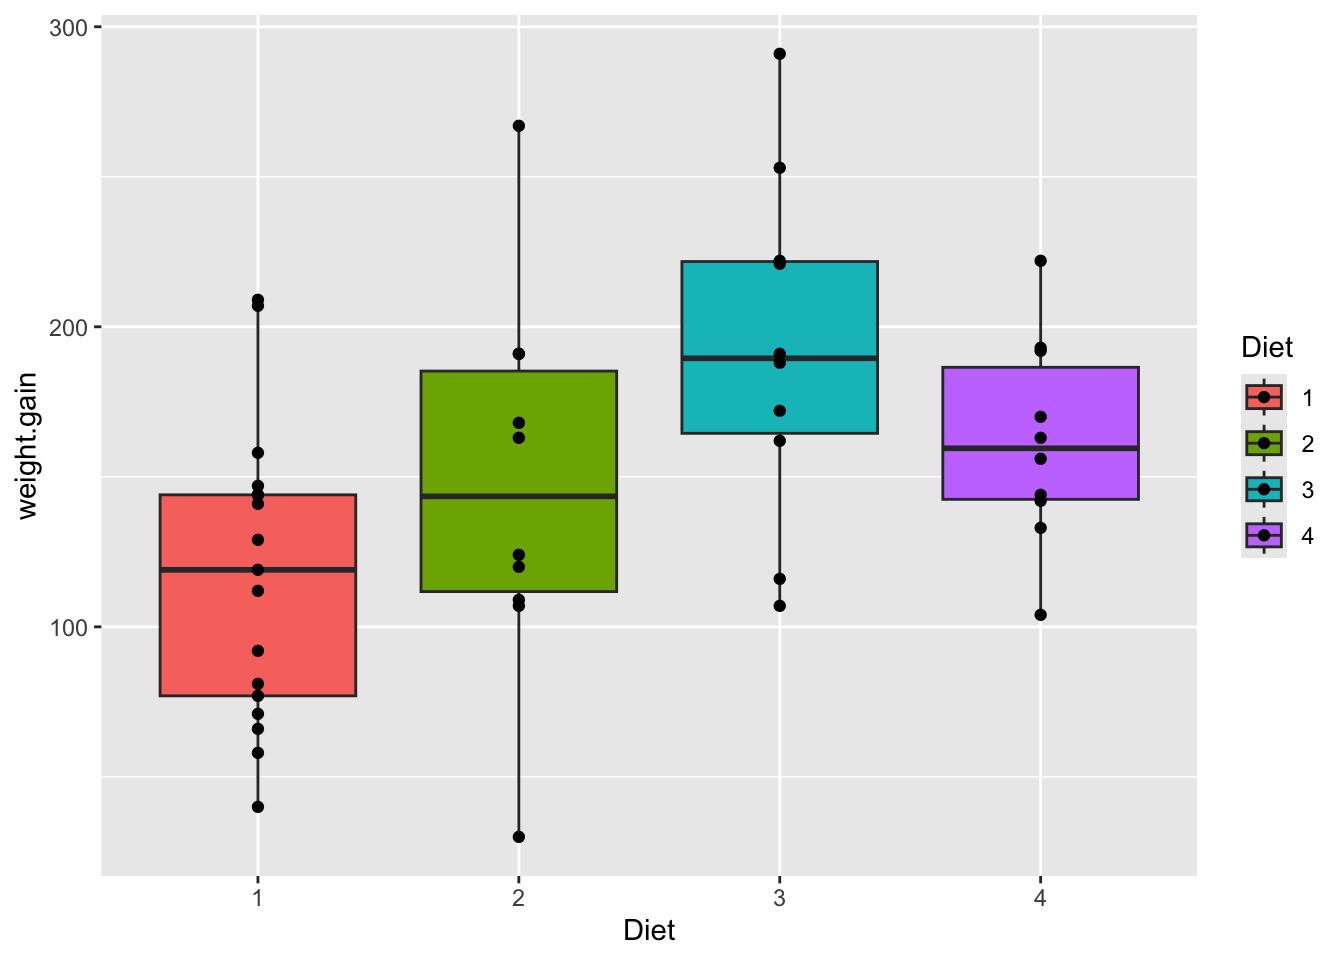
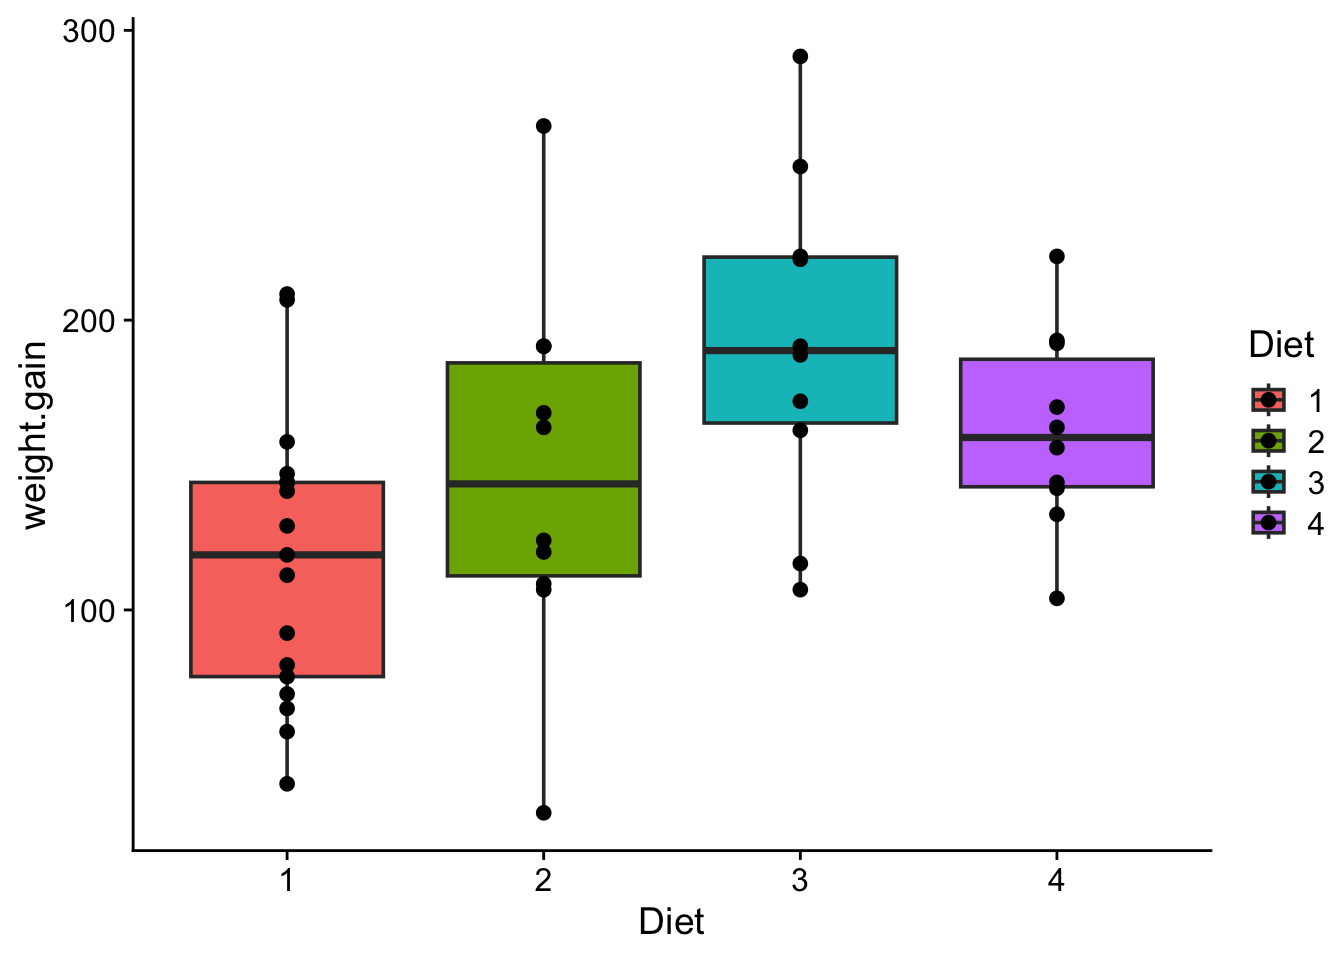
CW04

diff --git a/docs/activities/classwork04/classwork_L04.html b/docs/activities/classwork04/classwork_L04.html
@@ -189,7 +189,7 @@ pre > code.sourceCode > span > a:first-child::before { text-decoration: underlin
   <li><a href="#load-the-tidyverse-package" id="toc-load-the-tidyverse-package" class="nav-link" data-scroll-target="#load-the-tidyverse-package">Load the Tidyverse Package</a></li>
   <li><a href="#reshaping-and-summarizing-data" id="toc-reshaping-and-summarizing-data" class="nav-link" data-scroll-target="#reshaping-and-summarizing-data">Reshaping and Summarizing Data</a>
   <ul class="collapse">
-  <li><a href="#which-month-had-the-most-and-least-passengers-in-the-airpassengers-data" id="toc-which-month-had-the-most-and-least-passengers-in-the-airpassengers-data" class="nav-link" data-scroll-target="#which-month-had-the-most-and-least-passengers-in-the-airpassengers-data">1. Which month had the most and least passengers in the <code>AirPassengers</code> data?</a>
+  <li><a href="#on-average-which-month-had-the-most-and-least-passengers-in-the-airpassengers-data" id="toc-on-average-which-month-had-the-most-and-least-passengers-in-the-airpassengers-data" class="nav-link" data-scroll-target="#on-average-which-month-had-the-most-and-least-passengers-in-the-airpassengers-data">1. On average which month had the most and least passengers in the <code>AirPassengers</code> data?</a>
   <ul class="collapse">
   <li><a href="#a.-is-the-data-long-or-wide-what-form-does-it-need-to-be-in-how-can-you-convert-to-the-form-you-need" id="toc-a.-is-the-data-long-or-wide-what-form-does-it-need-to-be-in-how-can-you-convert-to-the-form-you-need" class="nav-link" data-scroll-target="#a.-is-the-data-long-or-wide-what-form-does-it-need-to-be-in-how-can-you-convert-to-the-form-you-need">A. Is the data long or wide? What form does it need to be in? How can you convert to the form you need?</a></li>
   <li><a href="#b.-how-can-we-extract-the-the-most-and-least-traveled-months-each-year" id="toc-b.-how-can-we-extract-the-the-most-and-least-traveled-months-each-year" class="nav-link" data-scroll-target="#b.-how-can-we-extract-the-the-most-and-least-traveled-months-each-year">B. How can we extract the the most and least traveled months each year?</a></li>
@@ -201,7 +201,7 @@ pre > code.sourceCode > span > a:first-child::before { text-decoration: underlin
   <li><a href="#b.-now-figure-out-which-diet-leads-to-the-heaviest-chicks." id="toc-b.-now-figure-out-which-diet-leads-to-the-heaviest-chicks." class="nav-link" data-scroll-target="#b.-now-figure-out-which-diet-leads-to-the-heaviest-chicks.">B. Now figure out which diet leads to the heaviest chicks.</a></li>
   </ul></li>
   </ul></li>
-  <li><a href="#how-much-weight-gain-from-each-diet" id="toc-how-much-weight-gain-from-each-diet" class="nav-link" data-scroll-target="#how-much-weight-gain-from-each-diet">How much weight gain from each Diet</a></li>
+  <li><a href="#how-much-weight-was-gained-from-each-diet" id="toc-how-much-weight-was-gained-from-each-diet" class="nav-link" data-scroll-target="#how-much-weight-was-gained-from-each-diet">How much weight was gained from each Diet</a></li>
   </ul>
 </nav>
     </div>
@@ -259,11 +259,18 @@ pre > code.sourceCode > span > a:first-child::before { text-decoration: underlin
 <h1>Reshaping and Summarizing Data</h1>
 <p>A common type of data that requires reshaping is time course data.</p>
 <p>Using tidyverse principles answer the questions below:</p>
-<section id="which-month-had-the-most-and-least-passengers-in-the-airpassengers-data" class="level2">
-<h2 class="anchored" data-anchor-id="which-month-had-the-most-and-least-passengers-in-the-airpassengers-data">1. Which month had the most and least passengers in the <code>AirPassengers</code> data?</h2>
+<section id="on-average-which-month-had-the-most-and-least-passengers-in-the-airpassengers-data" class="level2">
+<h2 class="anchored" data-anchor-id="on-average-which-month-had-the-most-and-least-passengers-in-the-airpassengers-data">1. On average which month had the most and least passengers in the <code>AirPassengers</code> data?</h2>
 <p>The <code>AirPassengers</code> data which is a time-series of data representing the monthly international airline passenger numbers from January 1949 to December 1960. Search for AirPassengers in the <code>Help</code> to learn more about the dataset.</p>
 <div class="cell">
-<div class="code-copy-outer-scaffold"><div class="sourceCode cell-code" id="cb2"><pre class="sourceCode r code-with-copy"><code class="sourceCode r"><span id="cb2-1"><a href="#cb2-1" aria-hidden="true" tabindex="-1"></a><span class="co"># Load and inspect the data, a little reshaping here to get in to an easy to read format for you.</span></span></code></pre></div><button title="Copy to Clipboard" class="code-copy-button"><i class="bi"></i></button></div>
+<div class="code-copy-outer-scaffold"><div class="sourceCode cell-code" id="cb2"><pre class="sourceCode r code-with-copy"><code class="sourceCode r"><span id="cb2-1"><a href="#cb2-1" aria-hidden="true" tabindex="-1"></a><span class="co"># Load and inspect the data, a little reshaping here to get in to an easy to read format for you.</span></span>
+<span id="cb2-2"><a href="#cb2-2" aria-hidden="true" tabindex="-1"></a></span>
+<span id="cb2-3"><a href="#cb2-3" aria-hidden="true" tabindex="-1"></a>AP_matrix <span class="ot">&lt;-</span> <span class="fu">matrix</span>(AirPassengers, <span class="at">nrow =</span> <span class="fu">length</span>(<span class="fu">unique</span>(<span class="fu">floor</span>(<span class="fu">time</span>(AirPassengers)))), <span class="at">byrow =</span> <span class="cn">TRUE</span>)</span>
+<span id="cb2-4"><a href="#cb2-4" aria-hidden="true" tabindex="-1"></a><span class="fu">colnames</span>(AP_matrix) <span class="ot">&lt;-</span> month.abb</span>
+<span id="cb2-5"><a href="#cb2-5" aria-hidden="true" tabindex="-1"></a><span class="fu">rownames</span>(AP_matrix) <span class="ot">&lt;-</span> <span class="fu">unique</span>(<span class="fu">floor</span>(<span class="fu">time</span>(AirPassengers)))</span>
+<span id="cb2-6"><a href="#cb2-6" aria-hidden="true" tabindex="-1"></a>AP_df <span class="ot">&lt;-</span> <span class="fu">as.data.frame</span>(AP_matrix)</span>
+<span id="cb2-7"><a href="#cb2-7" aria-hidden="true" tabindex="-1"></a>AP_df<span class="sc">$</span>Year <span class="ot">&lt;-</span> <span class="fu">rownames</span>(AP_matrix)</span>
+<span id="cb2-8"><a href="#cb2-8" aria-hidden="true" tabindex="-1"></a><span class="fu">rm</span>(AP_matrix)</span></code></pre></div><button title="Copy to Clipboard" class="code-copy-button"><i class="bi"></i></button></div>
 </div>
 <section id="a.-is-the-data-long-or-wide-what-form-does-it-need-to-be-in-how-can-you-convert-to-the-form-you-need" class="level3">
 <h3 class="anchored" data-anchor-id="a.-is-the-data-long-or-wide-what-form-does-it-need-to-be-in-how-can-you-convert-to-the-form-you-need">A. Is the data long or wide? What form does it need to be in? How can you convert to the form you need?</h3>
@@ -284,185 +291,59 @@ pre > code.sourceCode > span > a:first-child::before { text-decoration: underlin
 <h2 class="anchored" data-anchor-id="which-diet-lead-to-heavier-chicks">3. Which diet lead to heavier chicks?</h2>
 <p>We will use the <code>ChickWeight</code> data. Use the help to read more about the data.</p>
 <div class="cell">
-<div class="code-copy-outer-scaffold"><div class="sourceCode cell-code" id="cb4"><pre class="sourceCode r code-with-copy"><code class="sourceCode r"><span id="cb4-1"><a href="#cb4-1" aria-hidden="true" tabindex="-1"></a><span class="co"># First look at the data.</span></span></code></pre></div><button title="Copy to Clipboard" class="code-copy-button"><i class="bi"></i></button></div>
+<div class="code-copy-outer-scaffold"><div class="sourceCode cell-code" id="cb4"><pre class="sourceCode r code-with-copy"><code class="sourceCode r"><span id="cb4-1"><a href="#cb4-1" aria-hidden="true" tabindex="-1"></a><span class="co"># First look at the data.</span></span>
+<span id="cb4-2"><a href="#cb4-2" aria-hidden="true" tabindex="-1"></a><span class="fu">glimpse</span>(ChickWeight)</span></code></pre></div><button title="Copy to Clipboard" class="code-copy-button"><i class="bi"></i></button></div>
+<div class="cell-output cell-output-stdout">
+<pre><code>Rows: 578
+Columns: 4
+$ weight &lt;dbl&gt; 42, 51, 59, 64, 76, 93, 106, 125, 149, 171, 199, 205, 40, 49, 5…
+$ Time   &lt;dbl&gt; 0, 2, 4, 6, 8, 10, 12, 14, 16, 18, 20, 21, 0, 2, 4, 6, 8, 10, 1…
+$ Chick  &lt;ord&gt; 1, 1, 1, 1, 1, 1, 1, 1, 1, 1, 1, 1, 2, 2, 2, 2, 2, 2, 2, 2, 2, …
+$ Diet   &lt;fct&gt; 1, 1, 1, 1, 1, 1, 1, 1, 1, 1, 1, 1, 1, 1, 1, 1, 1, 1, 1, 1, 1, …</code></pre>
+</div>
+<div class="code-copy-outer-scaffold"><div class="sourceCode cell-code" id="cb6"><pre class="sourceCode r code-with-copy"><code class="sourceCode r"><span id="cb6-1"><a href="#cb6-1" aria-hidden="true" tabindex="-1"></a><span class="fu">head</span>(ChickWeight)</span></code></pre></div><button title="Copy to Clipboard" class="code-copy-button"><i class="bi"></i></button></div>
+<div class="cell-output cell-output-stdout">
+<pre><code>  weight Time Chick Diet
+1     42    0     1    1
+2     51    2     1    1
+3     59    4     1    1
+4     64    6     1    1
+5     76    8     1    1
+6     93   10     1    1</code></pre>
+</div>
 </div>
 <section id="a.-count-how-many-timepoints-were-measured-and-how-many-chicks-were-on-each-diet." class="level3">
 <h3 class="anchored" data-anchor-id="a.-count-how-many-timepoints-were-measured-and-how-many-chicks-were-on-each-diet.">A. Count how many timepoints were measured and how many chicks were on each Diet.</h3>
 <div class="cell">
-<div class="code-copy-outer-scaffold"><div class="sourceCode cell-code" id="cb5"><pre class="sourceCode r code-with-copy"><code class="sourceCode r"><span id="cb5-1"><a href="#cb5-1" aria-hidden="true" tabindex="-1"></a><span class="co"># How can you count the timepoints, chicks, and diets, and chicks nested in diets?</span></span></code></pre></div><button title="Copy to Clipboard" class="code-copy-button"><i class="bi"></i></button></div>
+<div class="code-copy-outer-scaffold"><div class="sourceCode cell-code" id="cb8"><pre class="sourceCode r code-with-copy"><code class="sourceCode r"><span id="cb8-1"><a href="#cb8-1" aria-hidden="true" tabindex="-1"></a><span class="co"># How can you count the timepoints, chicks, and diets, and chicks nested in diets?</span></span></code></pre></div><button title="Copy to Clipboard" class="code-copy-button"><i class="bi"></i></button></div>
 </div>
 </section>
 <section id="b.-now-figure-out-which-diet-leads-to-the-heaviest-chicks." class="level3">
 <h3 class="anchored" data-anchor-id="b.-now-figure-out-which-diet-leads-to-the-heaviest-chicks.">B. Now figure out which diet leads to the heaviest chicks.</h3>
 <div class="cell">
-<div class="code-copy-outer-scaffold"><div class="sourceCode cell-code" id="cb6"><pre class="sourceCode r code-with-copy"><code class="sourceCode r"><span id="cb6-1"><a href="#cb6-1" aria-hidden="true" tabindex="-1"></a><span class="co"># we can plot it to get a first view</span></span>
-<span id="cb6-2"><a href="#cb6-2" aria-hidden="true" tabindex="-1"></a>ChickWeight <span class="sc">|&gt;</span></span>
-<span id="cb6-3"><a href="#cb6-3" aria-hidden="true" tabindex="-1"></a>  <span class="fu">ggplot</span>(<span class="fu">aes</span>(<span class="at">x =</span> Time, <span class="at">y =</span> weight, <span class="at">group =</span> Chick, <span class="at">color =</span> Diet)) <span class="sc">+</span> </span>
-<span id="cb6-4"><a href="#cb6-4" aria-hidden="true" tabindex="-1"></a>  <span class="fu">geom_line</span>() <span class="sc">+</span></span>
-<span id="cb6-5"><a href="#cb6-5" aria-hidden="true" tabindex="-1"></a>  <span class="fu">theme_cowplot</span>()</span></code></pre></div><button title="Copy to Clipboard" class="code-copy-button"><i class="bi"></i></button></div>
-<div class="cell-output-display">
-<div>
-<figure class="figure">
-<p><img src="classwork_L04_files/figure-html/unnamed-chunk-7-1.png" class="img-fluid figure-img" width="672"></p>
-</figure>
-</div>
-</div>
-<div class="code-copy-outer-scaffold"><div class="sourceCode cell-code" id="cb7"><pre class="sourceCode r code-with-copy"><code class="sourceCode r"><span id="cb7-1"><a href="#cb7-1" aria-hidden="true" tabindex="-1"></a>ChickWeight <span class="sc">|&gt;</span></span>
-<span id="cb7-2"><a href="#cb7-2" aria-hidden="true" tabindex="-1"></a>  <span class="fu">ggplot</span>(<span class="fu">aes</span>(<span class="at">x =</span> Time, <span class="at">y =</span> weight, <span class="at">group =</span> Chick, <span class="at">color =</span> Diet)) <span class="sc">+</span> </span>
-<span id="cb7-3"><a href="#cb7-3" aria-hidden="true" tabindex="-1"></a>  <span class="fu">geom_line</span>() <span class="sc">+</span></span>
-<span id="cb7-4"><a href="#cb7-4" aria-hidden="true" tabindex="-1"></a>  <span class="fu">theme_cowplot</span>() <span class="sc">+</span></span>
-<span id="cb7-5"><a href="#cb7-5" aria-hidden="true" tabindex="-1"></a>  <span class="fu">facet_wrap</span>(<span class="sc">~</span> Diet)</span></code></pre></div><button title="Copy to Clipboard" class="code-copy-button"><i class="bi"></i></button></div>
-<div class="cell-output-display">
-<div>
-<figure class="figure">
-<p><img src="classwork_L04_files/figure-html/unnamed-chunk-7-2.png" class="img-fluid figure-img" width="672"></p>
-</figure>
-</div>
-</div>
+<div class="code-copy-outer-scaffold"><div class="sourceCode cell-code" id="cb9"><pre class="sourceCode r code-with-copy"><code class="sourceCode r"><span id="cb9-1"><a href="#cb9-1" aria-hidden="true" tabindex="-1"></a><span class="co"># we can plot it to get a first view</span></span></code></pre></div><button title="Copy to Clipboard" class="code-copy-button"><i class="bi"></i></button></div>
 </div>
 </section>
 </section>
 </section>
-<section id="how-much-weight-gain-from-each-diet" class="level1">
-<h1>How much weight gain from each Diet</h1>
+<section id="how-much-weight-was-gained-from-each-diet" class="level1">
+<h1>How much weight was gained from each Diet</h1>
 <div class="cell">
-<div class="code-copy-outer-scaffold"><div class="sourceCode cell-code" id="cb8"><pre class="sourceCode r code-with-copy"><code class="sourceCode r"><span id="cb8-1"><a href="#cb8-1" aria-hidden="true" tabindex="-1"></a>data <span class="ot">&lt;-</span> ChickWeight <span class="sc">|&gt;</span> </span>
-<span id="cb8-2"><a href="#cb8-2" aria-hidden="true" tabindex="-1"></a>  <span class="fu">pivot_wider</span>(<span class="at">names_from =</span> Time, <span class="at">names_prefix =</span> <span class="st">"day_"</span>, <span class="at">values_from =</span> weight)</span>
-<span id="cb8-3"><a href="#cb8-3" aria-hidden="true" tabindex="-1"></a></span>
-<span id="cb8-4"><a href="#cb8-4" aria-hidden="true" tabindex="-1"></a></span>
-<span id="cb8-5"><a href="#cb8-5" aria-hidden="true" tabindex="-1"></a>data <span class="ot">&lt;-</span> data <span class="sc">|&gt;</span> <span class="fu">mutate</span>(<span class="at">weight.gain =</span> day_18 <span class="sc">-</span> day_0)</span>
-<span id="cb8-6"><a href="#cb8-6" aria-hidden="true" tabindex="-1"></a></span>
-<span id="cb8-7"><a href="#cb8-7" aria-hidden="true" tabindex="-1"></a>data <span class="sc">|&gt;</span></span>
-<span id="cb8-8"><a href="#cb8-8" aria-hidden="true" tabindex="-1"></a>  <span class="fu">ggplot</span>(<span class="fu">aes</span>(<span class="at">x =</span> Diet, <span class="at">y =</span> weight.gain, <span class="at">fill =</span> Diet)) <span class="sc">+</span> </span>
-<span id="cb8-9"><a href="#cb8-9" aria-hidden="true" tabindex="-1"></a>  <span class="fu">geom_boxplot</span>() <span class="sc">+</span> </span>
-<span id="cb8-10"><a href="#cb8-10" aria-hidden="true" tabindex="-1"></a>  <span class="fu">geom_point</span>()</span></code></pre></div><button title="Copy to Clipboard" class="code-copy-button"><i class="bi"></i></button></div>
-<div class="cell-output cell-output-stderr">
-<pre><code>Warning: Removed 3 rows containing non-finite outside the scale range
-(`stat_boxplot()`).</code></pre>
-</div>
-<div class="cell-output cell-output-stderr">
-<pre><code>Warning: Removed 3 rows containing missing values or values outside the scale range
-(`geom_point()`).</code></pre>
-</div>
-<div class="cell-output-display">
-<div>
-<figure class="figure">
-<p><img src="classwork_L04_files/figure-html/unnamed-chunk-8-1.png" class="img-fluid figure-img" width="672"></p>
-</figure>
-</div>
-</div>
-<div class="code-copy-outer-scaffold"><div class="sourceCode cell-code" id="cb11"><pre class="sourceCode r code-with-copy"><code class="sourceCode r"><span id="cb11-1"><a href="#cb11-1" aria-hidden="true" tabindex="-1"></a>mod <span class="ot">&lt;-</span> <span class="fu">aov</span>(weight.gain <span class="sc">~</span> Diet, <span class="at">data =</span> data)</span>
-<span id="cb11-2"><a href="#cb11-2" aria-hidden="true" tabindex="-1"></a></span>
-<span id="cb11-3"><a href="#cb11-3" aria-hidden="true" tabindex="-1"></a><span class="fu">summary</span>(mod)</span></code></pre></div><button title="Copy to Clipboard" class="code-copy-button"><i class="bi"></i></button></div>
-<div class="cell-output cell-output-stdout">
-<pre><code>            Df Sum Sq Mean Sq F value  Pr(&gt;F)   
-Diet         3  37479   12493    4.63 0.00682 **
-Residuals   43 116029    2698                   
----
-Signif. codes:  0 '***' 0.001 '**' 0.01 '*' 0.05 '.' 0.1 ' ' 1
-3 observations deleted due to missingness</code></pre>
-</div>
-<div class="code-copy-outer-scaffold"><div class="sourceCode cell-code" id="cb13"><pre class="sourceCode r code-with-copy"><code class="sourceCode r"><span id="cb13-1"><a href="#cb13-1" aria-hidden="true" tabindex="-1"></a><span class="fu">TukeyHSD</span>(mod)</span></code></pre></div><button title="Copy to Clipboard" class="code-copy-button"><i class="bi"></i></button></div>
-<div class="cell-output cell-output-stdout">
-<pre><code>  Tukey multiple comparisons of means
-    95% family-wise confidence level
-
-Fit: aov(formula = weight.gain ~ Diet, data = data)
-
-$Diet
-         diff       lwr       upr     p adj
-2-1  29.64706 -25.67665  84.97077 0.4867633
-3-1  74.94706  19.62335 130.27077 0.0041372
-4-1  44.54706 -10.77665  99.87077 0.1533433
-3-2  45.30000 -16.78246 107.38246 0.2229497
-4-2  14.90000 -47.18246  76.98246 0.9179605
-4-3 -30.40000 -92.48246  31.68246 0.5626028</code></pre>
-</div>
-<div class="code-copy-outer-scaffold"><div class="sourceCode cell-code" id="cb15"><pre class="sourceCode r code-with-copy"><code class="sourceCode r"><span id="cb15-1"><a href="#cb15-1" aria-hidden="true" tabindex="-1"></a><span class="fu">pairwise.t.test</span>(data<span class="sc">$</span>weight.gain, data<span class="sc">$</span>Diet, <span class="at">p.adjust.method =</span> <span class="st">"BH"</span>)</span></code></pre></div><button title="Copy to Clipboard" class="code-copy-button"><i class="bi"></i></button></div>
-<div class="cell-output cell-output-stdout">
-<pre><code>
-    Pairwise comparisons using t tests with pooled SD 
-
-data:  data$weight.gain and data$Diet 
-
-  1      2      3     
-2 0.2371 -      -     
-3 0.0046 0.1154 -     
-4 0.1112 0.5247 0.2371
-
-P value adjustment method: BH </code></pre>
-</div>
-<div class="code-copy-outer-scaffold"><div class="sourceCode cell-code" id="cb17"><pre class="sourceCode r code-with-copy"><code class="sourceCode r"><span id="cb17-1"><a href="#cb17-1" aria-hidden="true" tabindex="-1"></a><span class="fu">library</span>(lme4)</span></code></pre></div><button title="Copy to Clipboard" class="code-copy-button"><i class="bi"></i></button></div>
-<div class="cell-output cell-output-stderr">
-<pre><code>Loading required package: Matrix</code></pre>
-</div>
-<div class="cell-output cell-output-stderr">
-<pre><code>
-Attaching package: 'Matrix'</code></pre>
-</div>
-<div class="cell-output cell-output-stderr">
-<pre><code>The following objects are masked from 'package:tidyr':
-
-    expand, pack, unpack</code></pre>
-</div>
-<div class="code-copy-outer-scaffold"><div class="sourceCode cell-code" id="cb21"><pre class="sourceCode r code-with-copy"><code class="sourceCode r"><span id="cb21-1"><a href="#cb21-1" aria-hidden="true" tabindex="-1"></a><span class="fu">library</span>(lmerTest)</span></code></pre></div><button title="Copy to Clipboard" class="code-copy-button"><i class="bi"></i></button></div>
-<div class="cell-output cell-output-stderr">
-<pre><code>
-Attaching package: 'lmerTest'</code></pre>
-</div>
-<div class="cell-output cell-output-stderr">
-<pre><code>The following object is masked from 'package:lme4':
-
-    lmer</code></pre>
-</div>
-<div class="cell-output cell-output-stderr">
-<pre><code>The following object is masked from 'package:stats':
-
-    step</code></pre>
-</div>
-<div class="code-copy-outer-scaffold"><div class="sourceCode cell-code" id="cb25"><pre class="sourceCode r code-with-copy"><code class="sourceCode r"><span id="cb25-1"><a href="#cb25-1" aria-hidden="true" tabindex="-1"></a>mod2 <span class="ot">&lt;-</span> <span class="fu">lmer</span>(weight <span class="sc">~</span> Diet <span class="sc">*</span> Time <span class="sc">+</span> (<span class="dv">1</span> <span class="sc">|</span> Chick), <span class="at">data =</span> ChickWeight)</span>
-<span id="cb25-2"><a href="#cb25-2" aria-hidden="true" tabindex="-1"></a><span class="fu">summary</span>(mod2)</span></code></pre></div><button title="Copy to Clipboard" class="code-copy-button"><i class="bi"></i></button></div>
-<div class="cell-output cell-output-stdout">
-<pre><code>Linear mixed model fit by REML. t-tests use Satterthwaite's method [
-lmerModLmerTest]
-Formula: weight ~ Diet * Time + (1 | Chick)
-   Data: ChickWeight
-
-REML criterion at convergence: 5466.9
-
-Scaled residuals: 
-    Min      1Q  Median      3Q     Max 
--3.3158 -0.5900 -0.0693  0.5361  3.6024 
-
-Random effects:
- Groups   Name        Variance Std.Dev.
- Chick    (Intercept) 545.7    23.36   
- Residual             643.3    25.36   
-Number of obs: 578, groups:  Chick, 50
-
-Fixed effects:
-            Estimate Std. Error       df t value Pr(&gt;|t|)    
-(Intercept)  31.5143     6.1163  70.7030   5.152 2.23e-06 ***
-Diet2        -2.8807    10.5479  69.6438  -0.273    0.786    
-Diet3       -13.2640    10.5479  69.6438  -1.258    0.213    
-Diet4        -0.4016    10.5565  69.8601  -0.038    0.970    
-Time          6.7115     0.2584 532.8900  25.976  &lt; 2e-16 ***
-Diet2:Time    1.8977     0.4284 527.6886   4.430 1.15e-05 ***
-Diet3:Time    4.7114     0.4284 527.6886  10.998  &lt; 2e-16 ***
-Diet4:Time    2.9506     0.4340 528.0372   6.799 2.86e-11 ***
----
-Signif. codes:  0 '***' 0.001 '**' 0.01 '*' 0.05 '.' 0.1 ' ' 1
-
-Correlation of Fixed Effects:
-           (Intr) Diet2  Diet3  Diet4  Time   Dt2:Tm Dt3:Tm
-Diet2      -0.580                                          
-Diet3      -0.580  0.336                                   
-Diet4      -0.579  0.336  0.336                            
-Time       -0.426  0.247  0.247  0.247                     
-Diet2:Time  0.257 -0.431 -0.149 -0.149 -0.603              
-Diet3:Time  0.257 -0.149 -0.431 -0.149 -0.603  0.364       
-Diet4:Time  0.254 -0.147 -0.147 -0.432 -0.595  0.359  0.359</code></pre>
-</div>
+<div class="code-copy-outer-scaffold"><div class="sourceCode cell-code" id="cb10"><pre class="sourceCode r code-with-copy"><code class="sourceCode r"><span id="cb10-1"><a href="#cb10-1" aria-hidden="true" tabindex="-1"></a><span class="co"># some stats</span></span>
+<span id="cb10-2"><a href="#cb10-2" aria-hidden="true" tabindex="-1"></a>mod <span class="ot">&lt;-</span> <span class="fu">aov</span>(weight.gain <span class="sc">~</span> Diet, <span class="at">data =</span> data)</span>
+<span id="cb10-3"><a href="#cb10-3" aria-hidden="true" tabindex="-1"></a><span class="fu">summary</span>(mod)</span>
+<span id="cb10-4"><a href="#cb10-4" aria-hidden="true" tabindex="-1"></a><span class="fu">TukeyHSD</span>(mod)</span>
+<span id="cb10-5"><a href="#cb10-5" aria-hidden="true" tabindex="-1"></a></span>
+<span id="cb10-6"><a href="#cb10-6" aria-hidden="true" tabindex="-1"></a></span>
+<span id="cb10-7"><a href="#cb10-7" aria-hidden="true" tabindex="-1"></a><span class="co"># linear modeling</span></span>
+<span id="cb10-8"><a href="#cb10-8" aria-hidden="true" tabindex="-1"></a></span>
+<span id="cb10-9"><a href="#cb10-9" aria-hidden="true" tabindex="-1"></a><span class="fu">library</span>(lme4)</span>
+<span id="cb10-10"><a href="#cb10-10" aria-hidden="true" tabindex="-1"></a><span class="fu">library</span>(lmerTest)</span>
+<span id="cb10-11"><a href="#cb10-11" aria-hidden="true" tabindex="-1"></a></span>
+<span id="cb10-12"><a href="#cb10-12" aria-hidden="true" tabindex="-1"></a>mod1 <span class="ot">&lt;-</span> <span class="fu">lmer</span>(weight <span class="sc">~</span> Diet <span class="sc">*</span> Time <span class="sc">+</span> (<span class="dv">1</span> <span class="sc">|</span> Chick), <span class="at">data =</span> dat) <span class="co"># only random intercept</span></span>
+<span id="cb10-13"><a href="#cb10-13" aria-hidden="true" tabindex="-1"></a>mod2 <span class="ot">&lt;-</span> <span class="fu">lmer</span>(weight <span class="sc">~</span> Diet <span class="sc">*</span> Time <span class="sc">+</span> (<span class="dv">1</span> <span class="sc">+</span> Time <span class="sc">|</span> Chick), <span class="at">data =</span> dat) <span class="co"># random slope and intercept</span></span>
+<span id="cb10-14"><a href="#cb10-14" aria-hidden="true" tabindex="-1"></a><span class="fu">summary</span>(mod2)</span>
+<span id="cb10-15"><a href="#cb10-15" aria-hidden="true" tabindex="-1"></a><span class="fu">anova</span>(mod1, mod2)</span></code></pre></div><button title="Copy to Clipboard" class="code-copy-button"><i class="bi"></i></button></div>
 </div>
 
 

diff --git a/docs/activities.html b/docs/activities.html
@@ -276,7 +276,7 @@ Author
 
 </tr>
 
-<tr data-index="2" data-listing-date-sort="1783918800000" data-listing-file-modified-sort="1783903733308" data-listing-date-modified-sort="NaN" data-listing-reading-time-sort="3" data-listing-word-count-sort="418" data-listing-title-sort="Data Wrangling with tidyverse" data-listing-filename-sort="classwork_L04.qmd">
+<tr data-index="2" data-listing-date-sort="1783918800000" data-listing-file-modified-sort="1783913559284" data-listing-date-modified-sort="NaN" data-listing-reading-time-sort="2" data-listing-word-count-sort="377" data-listing-title-sort="Data Wrangling with tidyverse" data-listing-filename-sort="classwork_L04.qmd">
 <td>
 <span class="listing-date">2026-07-13</span>
 </td>